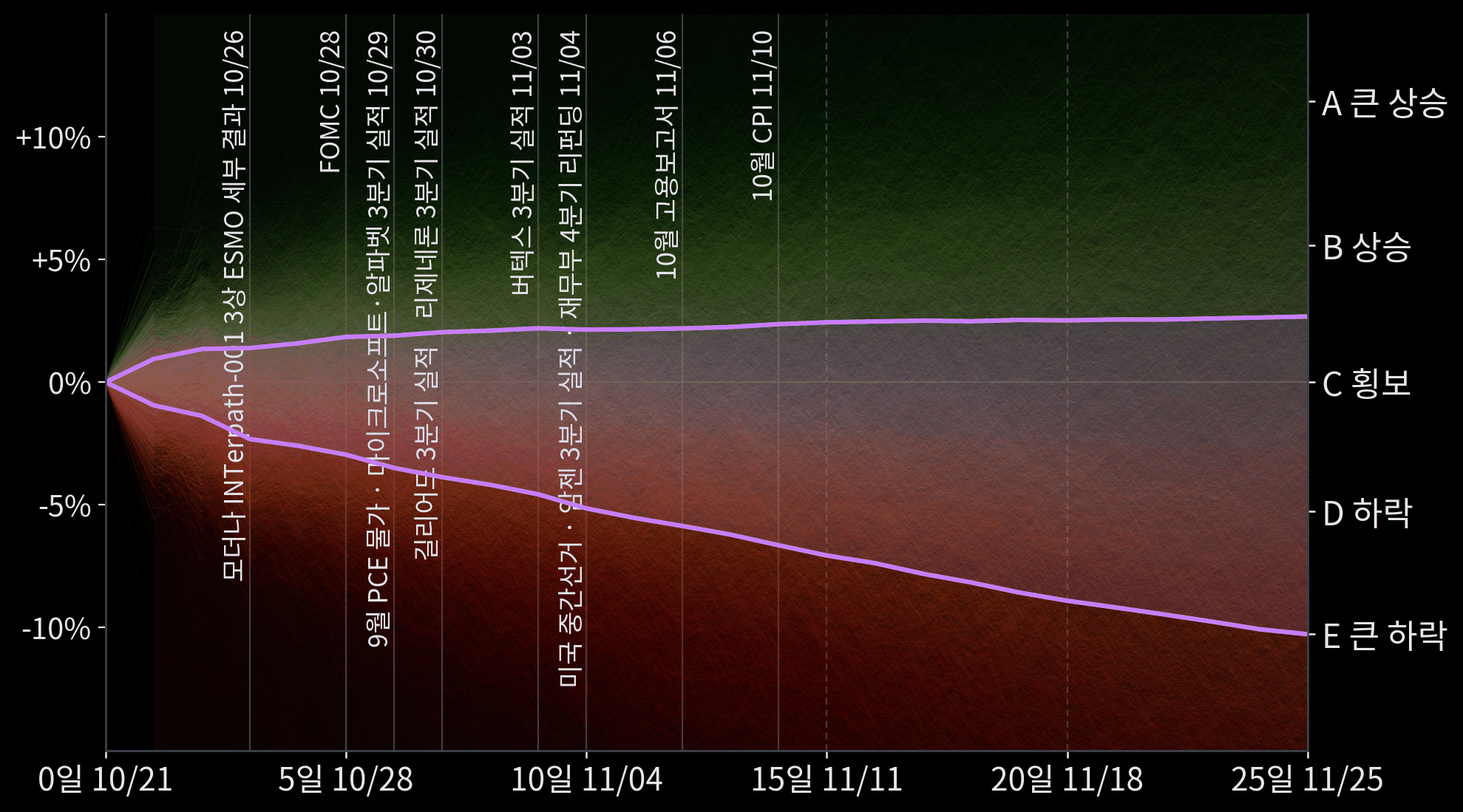
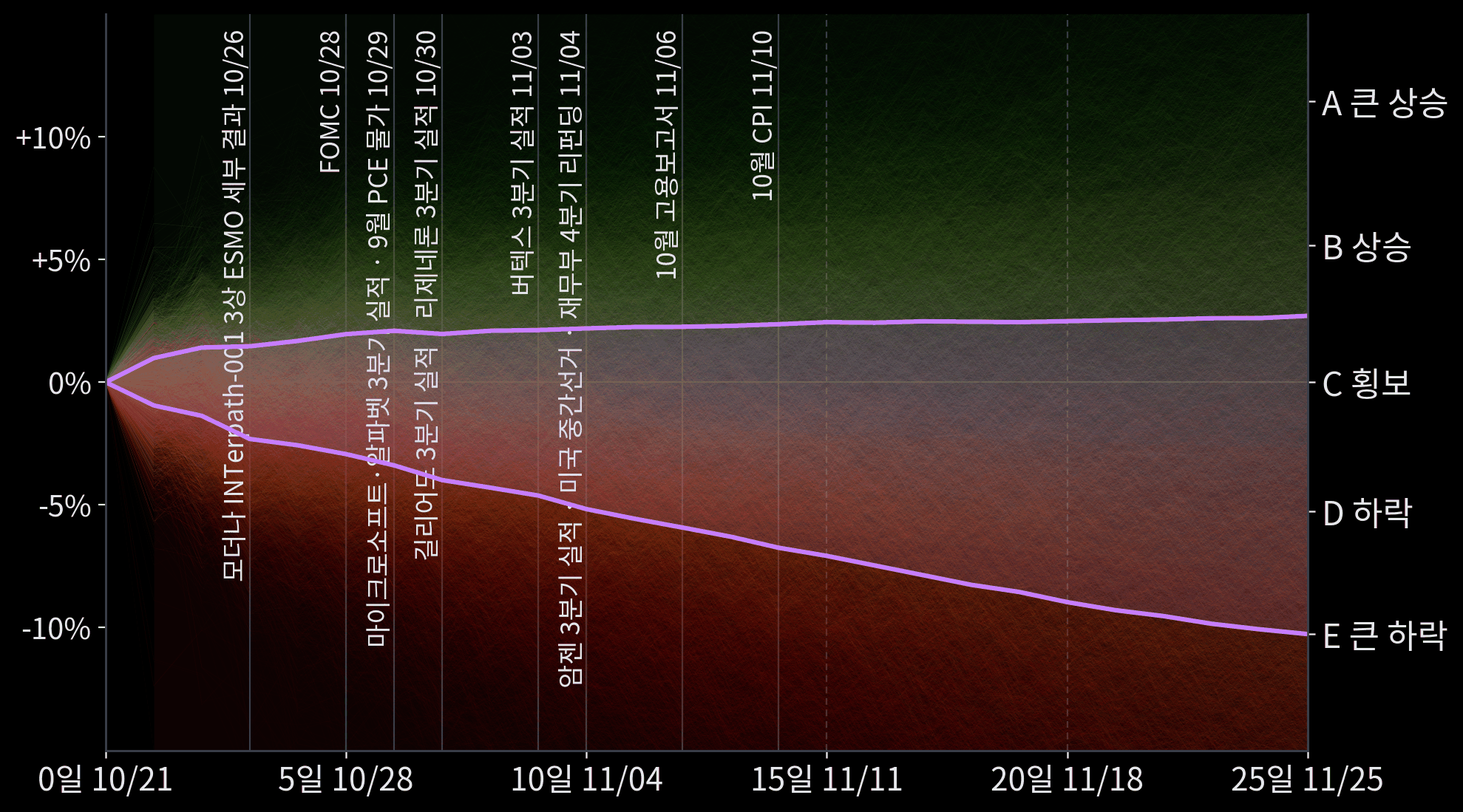
2026-10-22 biotech 리포트 공개본

diff --git a/r/20261022-biotech/report.html b/r/20261022-biotech/report.html
@@ -1,207 +1,202 @@
 <h2 id="오늘-판단-요약">오늘 판단 요약</h2>
-<p><img src="r/20261022-biotech/chart-biotech.png?v=337e635da9" /></p>
-<p><img src="r/20261022-biotech/predict-biotech.png?v=b8495b4a70" /></p>
+<p><img src="r/20261022-biotech/chart-biotech.png?v=d73c44df10" /></p>
+<p><img src="r/20261022-biotech/predict-biotech.png?v=c0faed87c1" /></p>
 <h3
-id="현재-상태-바이오-지수는-1년-고점-근처에-있지만-국채-금리가-높고-ai-기업의-부채에-대한-불안이-이어져-더-오르기-어렵다"><mark>현재
-상태</mark> 바이오 지수는 1년 고점 근처에 있지만, 국채 금리가 높고 AI
-기업의 부채에 대한 불안이 이어져 더 오르기 어렵다</h3>
-<p>10월 16일 AI 인프라 기업의 부채에 대한 우려 때문에 기술주가 크게
-하락했다. 바이오 주가도 같은 날 함께 하락했다. 모더나는 mRNA 기술로
-백신과 암 치료제를 만드는 기업이다. 10월 20일에는 모더나가 흑색종 백신
-발표를 앞두고 크게 오르면서 바이오 지수가 낙폭을 회복했다. 10월 21일에는
-투자자가 기술주를 다시 사들였고, 헬스케어 주식을 사던 자금은 하루 만에
-줄었다. 나스닥 바이오테크놀로지 지수는 지난 1년 가운데 가장 높은 수준에
-가깝다. 다만 국채가 주식보다 나은 수익을 주는 상태가 반년 가까이
-이어지고 있어, 신약 성과가 좋아도 주가가 크게 오르기는 어렵다. 위험
-회사채 시장의 신용 프리미엄도 1년 가운데 가장 높은 수준에 가깝게
-올랐지만, 금리가 크게 오른 채권은 아직 AI 관련 발행사와 최하위 등급
-채권이 대부분이다.</p>
+id="현재-상태-바이오-지수는-1년-고점-근처지만-국채-금리가-높고-위험-회사채의-신용-프리미엄이-올라-있어-더-오를-여지가-작다"><mark>현재
+상태</mark> 바이오 지수는 1년 고점 근처지만, 국채 금리가 높고 위험
+회사채의 신용 프리미엄이 올라 있어 더 오를 여지가 작다</h3>
+<p>나스닥 바이오테크놀로지 지수는 10월 20일 하루에 3% 넘게 올라 1년 고점
+근처에서 거래되고 있다. 언론은 이 상승을 두 가지로 설명했다: 투자자가
+기술주를 팔고 경기에 덜 민감한 헬스케어 주식을 샀다는 설명과, 10월 24일
+발표되는 모더나 암 백신 임상 결과를 앞두고 투자자가 주식을 샀다는
+설명이다. 두 재료가 이미 주가에 반영됐기 때문에, 같은 이유로 주가가 더
+오르기는 어렵다고 본다. 10년물 국채 수익률은 5%를 넘고 물가를 뺀
+실질금리도 반년 가까이 높아서, 안전한 국채가 주식보다 나은 수익을 주는
+상태가 이어지고 있다. 투자자가 위험한 기업에 돈을 빌려줄 때 요구하는
+신용 프리미엄(하이일드 채권 스프레드)도 지난 1년 가운데 가장 높은
+수준까지 올랐다. 다만 신용 프리미엄이 가장 크게 오른 채권은 AI
+데이터센터 관련 채권이고, 시장 전체의 하이일드 채권 스프레드는 1년
+안에서 높아도 위기로 보는 수준보다 한참 낮다. 바이오 기업의 증자와
+기업공개도 계속 성사되고 있다.</p>
 <h3
-id="주요-분기와-예측-앞으로-한-달-동안-모더나의-흑색종-백신-결과-ai-기업의-부채에-대한-불안-빅테크의-설비투자-계획이-중요하다"><mark>주요
-분기와 예측</mark> 앞으로 한 달 동안 모더나의 흑색종 백신 결과, AI
-기업의 부채에 대한 불안, 빅테크의 설비투자 계획이 중요하다</h3>
-<p>이번 달 바이오 주가에 가장 중요한 일은 10월 24일 모더나의 흑색종 백신
-3상 세부 결과 발표다. 재발 위험을 줄인 정도가 시장이 기대한 수준 근처로
-나올 가능성이 가장 높다고 본다. 두 번째는 AI 기업의 부채에 대한
-불안이다. 이 불안 때문에 위험 회사채 시장 전체의 신용 프리미엄까지 크게
-오를 가능성은 낮다고 본다. 세 번째는 10월 28일 마이크로소프트와 알파벳의
-실적 발표이고, 두 회사가 AI 설비투자 계획을 지킬 가능성이 높다고 본다.
-같은 날 연준은 금리를 동결하고 12월 인상 가능성을 남겨 둘 가능성이 높다.
-시장이 이미 예상한 결과라 발표 뒤 주가가 크게 움직이지 않는다.</p>
+id="주요-분기와-예측-앞으로-한-달-동안-모더나-임상-결과와-대형-바이오-기업의-실적-ai-기업의-부채에-대한-불안이-중요하다"><mark>주요
+분기와 예측</mark> 앞으로 한 달 동안 모더나 임상 결과와 대형 바이오
+기업의 실적, AI 기업의 부채에 대한 불안이 중요하다</h3>
+<p>가장 먼저 나오는 결과는 10월 24일 유럽종양학회(ESMO)에서 공개되는
+모더나 흑색종 백신의 3상 세부 결과다. 백신이 재발 위험을 시장 기대만큼
+줄였는지가 중요하다. 시장 기대 근처의 결과가 나올 가능성이 가장 높다고
+본다. 10월 29일부터 11월 3일 사이에는 길리어드·리제네론·버텍스·암젠이
+차례로 3분기 실적을 발표한다. 네 기업은 대체로 시장의 숫자 예상을 맞출
+가능성이 높다고 본다. 실적이 예상에 못 미치는 기업은 주가가 이미 많이
+올라 있어 크게 하락한다. AI 데이터센터 기업의 부채에 대한 불안 때문에
+위험 회사채 시장 전체의 신용 프리미엄까지 오르는 일은 일어날 수 있지만
+가능성이 높지는 않다고 본다.</p>
 <h3
-id="지수-영향-횡보-시나리오의-가능성이-가장-높고-모더나-결과가-실망스럽거나-ai-기업의-부채에-대한-불안이-커지면-하락-시나리오의-가능성이-커진다"><mark>지수
-영향</mark> 횡보 시나리오의 가능성이 가장 높고, 모더나 결과가
-실망스럽거나 AI 기업의 부채에 대한 불안이 커지면 하락 시나리오의
-가능성이 커진다</h3>
-<p>다섯 시나리오 가운데 횡보의 가능성이 가장 높고 하락이 그다음이다. 큰
-하락의 가능성도 하락과 비슷한 수준이다. 모더나 결과가 시장 기대에 못
-미치거나 AI 기업의 부채에 대한 불안 때문에 위험 회사채 시장 전체의 신용
-프리미엄까지 오르면 하락과 큰 하락 시나리오의 가능성이 커진다. 빅테크가
-설비투자 계획을 지키고 모더나 결과가 기대 근처로 나오면 횡보 시나리오의
-가능성이 커진다. 다섯 시나리오의 가능성은 어제와 거의 같다. 어제와 오늘
-사이 메타는 매출이 예상을 넘었고 올해 설비투자 계획의 하단을 올렸다.
-메타의 실적에도 위험 회사채 시장의 신용 프리미엄이 닷새 연속 높았으므로,
-상승 시나리오의 가능성은 조금 커지고 큰 하락 시나리오의 가능성은 조금
-줄었을 뿐이다.</p>
+id="지수-영향-횡보-시나리오의-가능성이-가장-높고-하락-시나리오가-그다음으로-높다"><mark>지수
+영향</mark> 횡보 시나리오의 가능성이 가장 높고 하락 시나리오가
+그다음으로 높다</h3>
+<p>다섯 시나리오 가운데 횡보 시나리오의 가능성이 가장 높고, 하락
+시나리오와 큰 하락 시나리오가 그다음으로 높다. 모더나 결과가 기대에 못
+미치거나 대형 기업이 실적에서 실망을 주면 하락 시나리오의 가능성이
+커진다. 반대로 대형 제약사가 상장 바이오 기업을 크게 인수하면 상승
+시나리오의 가능성이 커진다. 어제 판단과 견주면 상승 시나리오의 가능성이
+조금 커지고 큰 하락 시나리오의 가능성이 조금 줄었다. 어제와 오늘 사이에
+메타가 AI 설비투자 계획을 늘렸다. 이 때문에 다음 주
+마이크로소프트·알파벳도 계획을 지킬 가능성이 커졌다. 같은 날
+뉴욕타임스는 미국과 이스라엘이 선거 뒤 이란을 짧게 다시 공격할 계획을
+세웠다고 보도했다. 이 보도로 선거 뒤 공격 가능성을 조금 높게 봤기 때문에
+하락 시나리오의 가능성은 줄지 않았다.</p>
 <h2 id="주요-이슈-해설">주요 이슈 해설</h2>
 <h3
-id="1-모더나-흑색종-백신의-결과는-시장-기대-근처일-가능성이-높지만-주가가-이미-높아-결과가-실망스러우면-바이오-지수가-크게-하락한다-중요도-높음">1.
-모더나 흑색종 백신의 결과는 시장 기대 근처일 가능성이 높지만, 주가가
-이미 높아 결과가 실망스러우면 바이오 지수가 크게 하락한다
-<code>중요도 높음</code></h3>
-<p><mark>현재 상태</mark> 머크는 이 백신을 모더나와 함께 개발하는 미국
-대형 제약사다. 모더나와 머크는 10월 24일(토) 유럽종양학회(ESMO)에서
-흑색종 수술 환자의 재발을 막는 맞춤형 암 백신의 3상 세부 결과를
-발표한다. 두 회사는 8월 19일 이 시험이 1차 목표를 달성했다고 밝혔지만,
-위험비(백신을 맞은 환자의 재발 위험이 대조군의 몇 배인지)는 공개하지
-않았다. 골드만삭스는 지금 주가가 유지되려면 위험비가 0.70 아래여야
-한다고 봤다. 증권사 Evercore ISI는 주가가 이미 큰 확신을 반영했다고
-평가했다. 공개된 자료로는 그 확신을 뒷받침하기에 훨씬 부족하다고
-봤다.</p>
-<p><mark>주요 분기와 예측</mark> 위험비가 시장이 기대한 0.65와 0.72
-사이로 나올 가능성이 가장 높다고 본다. 위험비가 0.65 아래이고 환자군마다
-결과가 고르면 명확한 승리다. 위험비가 0.72를 넘으면 실망이다. 판단을
-바꿀 신호는 3상에 새로 들어간 초기 병기(IIB·IIC기) 환자에서 효과가
-약하게 나오는지다.</p>
-<p><mark>지수 영향</mark> 모더나는 IBB에서 비중이 약 6%로 큰 종목이어서,
-모더나 주가가 크게 하락하면 지수도 눈에 띄게 하락한다. 결과가
-실망스러우면 모더나 주식을 산 투자자가 매도하고 다른 백신 종목에 대한
-기대도 줄어 지수가 하락한다. 명확한 승리여도 공매도 잔고가 세 번 연속
-줄었기 때문에, 공매도 투자자의 청산 매수로 생기는 추가 상승은 크지 않다.
-8월 20일 1차 목표 달성 발표 다음 날 모더나 주가가 하루에 23.55%
-하락했지만, 그 뒤 두 달 동안 다시 올라 10월 21일 245.81달러가 됐다.</p>
+id="1-모더나-흑색종-백신의-세부-결과가-시장-기대에-못-미치면-바이오-지수가-함께-하락한다-중요도-높음">1.
+모더나 흑색종 백신의 세부 결과가 시장 기대에 못 미치면 바이오 지수가
+함께 하락한다 <code>중요도 높음</code></h3>
+<p><mark>현재 상태</mark> 모더나는 mRNA 기술로 백신과 치료제를 만드는
+기업이다. 모더나는 머크와 함께 개발한 개인 맞춤형 흑색종 백신의 3상 세부
+결과를 10월 24일(토) 유럽종양학회 대통령 심포지엄에서 발표한다. 모더나
+주가는 올해 크게 올라 바이오 ETF IBB 안에서 비중이 네 번째로 크다.
+시티는 재발 위험을 35% 넘게 줄이면 확실한 성공으로 봤고, 골드만삭스는
+지금 주가를 설명하려면 30% 넘게 줄여야 한다고 봤다. TD Cowen은 10월 21일
+목표주가를 90달러로 올렸지만 투자 의견은 중립을 유지했다. 이 목표주가는
+지금 주가의 절반에도 못 미치므로, 결과가 좋아도 주가가 요구하는 매출을
+설명하기 어렵다는 시각이 남아 있다.</p>
+<p><mark>주요 분기와 예측</mark> 재발 위험 감소가 시장이 기대한 범위의
+경계 근처에서 나올 가능성이 가장 높다고 본다. 확실한 성공으로 읽히는
+결과의 가능성이 그다음으로 높고, 기대에 못 미치는 결과도 드물지 않다.
+결과가 기대 근처면 첫 거래일인 10월 26일 바이오 지수는 크게 움직이지
+않는다. 하위 환자군에서 효과가 고르게 나왔는지가 판단을 바꿀 신호다.</p>
+<p><mark>지수 영향</mark> 모더나가 크게 움직인 최근 네 거래일에는
+모더나를 뺀 나머지 바이오 종목도 같은 방향으로 움직였다. 롱숏 펀드는
+오를 종목을 사고 내릴 종목을 공매도하는 펀드다. 바이오 전문지
+BioCentury는 모더나를 공매도한 롱숏 펀드가 손실을 메우려고 보유한 다른
+대형 바이오 종목을 팔았다고 풀이했다. 8월 20일 모더나가 첫 결과 발표 뒤
+23% 넘게 하락한 날에는 IBB도 3% 가까이 하락했다.</p>
 <h3
-id="2-ai-기업의-부채에-대한-불안-때문에-위험-회사채-시장-전체의-신용-프리미엄까지-오를-가능성은-낮다고-보지만-오르면-바이오-지수도-크게-하락한다-중요도-보통">2.
-AI 기업의 부채에 대한 불안 때문에 위험 회사채 시장 전체의 신용
-프리미엄까지 오를 가능성은 낮다고 보지만, 오르면 바이오 지수도 크게
-하락한다 <code>중요도 보통</code></h3>
-<p><mark>현재 상태</mark> 하이일드 채권 스프레드(투자자가 위험한 기업에
-돈을 빌려줄 때 요구하는 신용 프리미엄)는 10월 14일부터 닷새 연속 3.20%를
-넘었고, 10월 20일 3.33%로 1년 가운데 가장 높은 수준에 가까웠다.
-골드만삭스는 AI 관련 부채의 스프레드가 크게 넓어졌지만 AI와 무관한 BB·B
-등급 부채의 스프레드는 거의 변하지 않았다고 분석했다. 오라클은 AI
-데이터센터에 대규모로 투자하는 클라우드 기업이다. CNBC에 따르면 오라클의
-5년 신용부도스와프(부도에 대비하는 보험료) 가격은 10월 19일 315bp로 1년
-전의 네 배를 넘었다. CNBC는 10월 21일 익명의 신용 데스크 소식통을
-인용해, 데이터센터에 정치적 반발이 일어날 수 있다는 우려 때문에 하이일드
-채권 발행이 중간선거 뒤까지 사실상 멈췄다고 전했다. 다만 3.33%는
-평상시로 보는 5%보다 낮은 값이어서, 시장은 이 불안을 AI 관련 기업의
-문제로 본다.</p>
-<p><mark>주요 분기와 예측</mark> 한 달 안에 신용등급 강등이나 채권 발행
-철회가 이어져 위험 회사채 시장 전체의 신용 프리미엄이 크게 오를 가능성은
-낮다고 본다. 마이크로소프트 실적 발표 뒤 기술주가 크게 하락하거나 연준이
-금리를 올리면 위험 회사채 시장 전체의 신용 프리미엄이 크게 오를 가능성이
-커진다. 판단을 바꿀 신호는 BB·B 등급 스프레드가 2주 넘게 지금처럼
-높은지다.</p>
-<p><mark>지수 영향</mark> 위험 회사채 시장 전체의 신용 프리미엄이 오르면
-투자자가 위험 자산을 줄이고, 현금이 부족한 중소형 바이오 기업의 증자
-비용도 오른다. 지금은 이 경로가 작동하지 않는다. 바이오 기업 디스크
-메디슨은 3상 성공 발표 다음 날인 10월 20일 4.5억 달러 증자를 직전
-종가보다 약 6% 낮은 가격에 마쳤다. 2018년 11월 Baa 회사채 스프레드가
-넓어지자 바이오 주가는 12월 24일까지 하락했고, 2019년 1월 4일 파월 연준
-의장이 정해진 정책 경로가 없다고 말한 뒤에야 반등했다.</p>
-<h3
-id="3-마이크로소프트알파벳은-ai-설비투자-계획을-지킬-가능성이-높지만-계획을-줄이면-기술주와-함께-바이오-주가도-하락한다-중요도-보통">3.
-마이크로소프트·알파벳은 AI 설비투자 계획을 지킬 가능성이 높지만, 계획을
-줄이면 기술주와 함께 바이오 주가도 하락한다
+id="2-주가가-크게-내리면-중소형-바이오-기업의-자금-조달이-막혀-하락이-길어질-수-있지만-지금은-증자와-기업공개가-계속-성사된다-중요도-보통">2.
+주가가 크게 내리면 중소형 바이오 기업의 자금 조달이 막혀 하락이 길어질
+수 있지만, 지금은 증자와 기업공개가 계속 성사된다
 <code>중요도 보통</code></h3>
-<p><mark>현재 상태</mark> 10월 16일 AI 인프라 기업의 부채에 대한 우려
-때문에 나스닥 종합지수가 2.3% 하락했다. 같은 날 IBB는 2.61%, 중소형
-바이오 ETF인 XBI는 3.65% 하락했다. 10월 21일 장 마감 뒤 메타는 매출이
-예상을 넘었고 올해 설비투자 계획의 하단을 1,350억 달러로 올려 시간외
-거래에서 올랐다. 반도체 장비 기업 램리서치는 같은 날 다음 분기 전망이
-예상을 웃돌았는데도 시간외 거래에서 5% 넘게 하락했다. 서울경제는
-램리서치의 전망이 예상을 조금 웃돌았을 뿐이어서 주가가 하락했다고
-설명했다. 투자자가 AI 기업에 거는 기대가 이미 높아서 좋은 실적만으로는
-주가가 오르기 어렵다.</p>
-<p><mark>주요 분기와 예측</mark> 마이크로소프트와 알파벳은 10월 28일 장
-마감 뒤 실적을 발표한다. 두 회사가 AI 설비투자 계획을 유지하거나 늘릴
-가능성이 높다고 본다. 메타도 계획을 지켰으므로 같은 방향의 근거가 된다.
-판단을 바꿀 신호는 QQQ가 10월 6일 고점보다 8% 넘게 하락하는지다.</p>
-<p><mark>지수 영향</mark> 계획이 유지되면 기술주에 대한 불안이 줄어
-바이오 주가도 조금 오른다. 계획이 줄면 AI 기업의 부채에 대한 불안이 다시
-커지고, 기술주가 급락하는 날 바이오 주가도 함께 하락한다. 헬스케어
-주식을 사던 자금이 10월 21일 하루 만에 줄었기 때문에, 기술주가 하락할 때
-바이오 주가도 함께 하락하기 쉽다. 2018년 4분기에는 QQQ가 1% 넘게 하락한
-22일 가운데 IBB가 오른 날이 하루도 없었다.</p>
+<p><mark>현재 상태</mark> 바이오 기업은 신약을 개발하는 동안 이익이
+없어서 증자와 기업공개로 연구 자금을 마련한다. 10월 21일 디스크 메디슨은
+전날 종가보다 약 6% 낮은 가격에 4.5억 달러어치 주식을 팔았고, 소형사
+알파 테크노바도 4,000만 달러를 마련했다. 10월에 상장한 바이오 기업 네
+곳의 주가는 모두 공모가보다 높다. 다만 기업공개가 모두 순조롭지는 않다.
+르네상스 캐피털은 미국 기업공개 시장을 분석하는 회사다. 르네상스
+캐피털은 TRex Bio가 2025년 2월 이후 처음으로 공모가 범위 중간보다 낮게
+상장한 바이오 기업이라고 밝혔다.</p>
+<p><mark>주요 분기와 예측</mark> 증자와 기업공개가 이번 달에도 계속
+성사될 가능성이 높다고 본다. 반대로 바이오 지수가 크게 하락하면 주관사가
+공모를 미루거나 공모가를 범위 아래로 낮춘다. 리시아 테라퓨틱스는 상장을
+준비하는 바이오 기업이다. 10월 23일로 예정된 리시아 테라퓨틱스의 공모가
+결정이 판단을 바꿀 신호다.</p>
+<p><mark>지수 영향</mark> 조달이 막히면 초기 단계 기업부터 주식을 팔아
+현금을 아끼려는 투자자가 늘어 동일가중 바이오 지수(종목마다 같은 비중을
+두는 지수, XBI)가 먼저 하락한다. 1997년 3~4월에는 금리 인상 뒤 바이오
+기업공개가 두 달 동안 한 건도 성사되지 않았다. 바이오 지수는 약 두 달
+만에 20% 넘게 하락한 뒤에야 대형주 실적과 함께 반등했다. 지금은 대형
+후속 공모가 할인 폭 안에서 팔리고 있어 자금 조달이 막혀 하락이 이어지는
+연쇄는 아직 시작되지 않았다.</p>
+<h3
+id="3-ai-데이터센터-기업의-부채에-대한-불안-때문에-위험-회사채-시장-전체의-신용-프리미엄까지-오르면-바이오-주가도-함께-하락한다-중요도-보통">3.
+AI 데이터센터 기업의 부채에 대한 불안 때문에 위험 회사채 시장 전체의
+신용 프리미엄까지 오르면 바이오 주가도 함께 하락한다
+<code>중요도 보통</code></h3>
+<p><mark>현재 상태</mark> 코어위브는 AI 데이터센터를 빌려주는 기업이다.
+코어위브의 5년 신용부도스와프(부도에 대비하는 보험료) 가격은 10월 20일
+1,000bp를 넘었다. 오라클의 같은 보험료도 315bp로 1년 전보다 세 배 넘게
+올랐다. 위험 회사채 시장 전체의 하이일드 채권 스프레드는 10월 14일부터
+닷새 연속 1년 가운데 가장 높은 수준으로 마감했다. BB 등급과 단일 B 등급
+회사채의 신용 프리미엄도 10월 중순까지 4주 동안 올랐다. 다만
+골드만삭스는 AI 관련 하이일드 채권의 신용 프리미엄이 가장 크게 올랐고
+AI와 무관한 회사채의 신용 프리미엄은 거의 변하지 않았다고 밝혔다.</p>
+<p><mark>주요 분기와 예측</mark> AI 발행사 채권 밖의 위험 회사채는 신용
+프리미엄이 지금보다 크게 오르지 않을 가능성이 높다고 본다. 반대로
+오라클의 신용등급이 투자등급 아래로 내려가거나 AI 기업이 채권 발행을
+철회하면 회사채 시장 전체의 신용 프리미엄이 오른다. 다음 주
+마이크로소프트·알파벳이 AI 설비투자를 줄이면 회사채 시장 전체의 신용
+프리미엄이 오를 가능성도 커진다. BB 등급과 단일 B 등급 회사채의 신용
+프리미엄이 2주 넘게 계속 높은지가 판단을 바꿀 신호다.</p>
+<p><mark>지수 영향</mark> 위험 회사채 시장 전체의 신용 프리미엄이 오르면
+투자자는 위험 자산을 줄이고, 바이오 기업이 자금을 빌리는 비용도 오른다.
+2023년 3월 실리콘밸리은행이 파산했을 때 바이오 지수는 한 달 반 사이에
+10% 넘게 하락했다. 바이오 지수는 예금 전액 보호와 화이자의 시젠 인수
+발표가 나온 뒤 약 30거래일 만에 대부분 회복했다. 지금은 바이오 기업의
+증자가 계속 성사되고 있어, 신용 프리미엄 상승이 바이오 기업의 자금 조달
+비용을 올리는 경로는 아직 나타나지 않았다.</p>
 <h3 id="검토했지만-비중을-낮춘-이슈">검토했지만 비중을 낮춘 이슈</h3>
 <ul>
-<li><strong>지수 하락에 따른 바이오 증자 창구 위축</strong>: 바이오
-기업의 증자와 기업공개가 아직 순조로워, 지수가 먼저 크게 하락해야 이
-경로가 작동한다.</li>
-<li><strong>상장 바이오 기업에 대한 추가 대형 인수</strong>: 10월에 인수
-두 건이 발표된 뒤 새 발표가 없고 다음 계기는 대형 제약사 실적 발표와
-선거 뒤다. 금리가 높은 시기라 인수가 발표돼도 주가 효과가 짧다고
-본다.</li>
-<li><strong>미국의 이란 공격과 유가</strong>: 트럼프 대통령이 선거
-전에는 공격하지 않겠다고 밝혀 선거 전 공격 가능성은 낮다. 투자자가 선거
-뒤 공격 위험을 이미 예상해 브렌트유가 올라 배럴당 110달러를 넘었다.</li>
-<li><strong>생명과학 도구·의료기기 기업의 3분기 실적</strong>: 애보트가
-연간 매출 전망을 낮춘 날 헬스케어 ETF가 하락했지만, 이 기업들은 IBB 구성
-종목이 아니어서 바이오 기업의 이익으로 이어지는 경로가 약하다.</li>
-<li><strong>미국 국립보건원(NIH)의 암 백신 민관 사업</strong>: 참여
-기업과 예산을 밝힐 1차 발표 일정이 없어 이번 달 주가에 주는 영향이 작다.
-암 백신에 대한 기대가 맞는지는 모더나 결과가 먼저 보여 준다.</li>
-<li><strong>메디케어 3차 약가 협상가 공표</strong>: 공표 시한이 11월
-30일이어서 결과가 한 달 뒤에 나오고, IBB 상위 종목 가운데 대상 약을 가진
-기업은 길리어드뿐이다.</li>
+<li><strong>상장 바이오 기업 추가 인수</strong>: 대형 제약사가 연말 전에
+상장 바이오 기업을 또 인수할 가능성은 높다. 하지만 인수 규모가 10억~50억
+달러면 지수 전체 주가가 크게 움직이지 않는다.</li>
+<li><strong>마이크로소프트·알파벳 실적과 기술주 조정</strong>: 메타가
+설비투자 계획을 늘려 두 기업도 계획을 지킬 가능성이 높다고 본다. 시장이
+이미 예상하는 결과라 바이오 지수에 주는 영향은 작다.</li>
+<li><strong>대형 바이오 기업 3분기 실적(길리어드·리제네론)</strong>:
+시장이 이미 낮은 숫자를 예상한 결과다. 한 기업이 실망을 주어도 지수 전체
+하락 폭은 크지 않다.</li>
+<li><strong>미국의 선거 뒤 이란 재공격</strong>: 트럼프 대통령이 아직
+공격을 승인하지 않았다. 계획대로 짧은 작전에 그치면 유가와 금리가 크게
+오르지 않는다.</li>
+<li><strong>QIAGEN 사모펀드 인수</strong>: 생명과학 장비·진단 기업을
+사모펀드가 사는 거래다. 상장 바이오 기업의 인수 흐름으로 이어지는 경로가
+약하다.</li>
 </ul>
 <h2 id="다가오는-이벤트">다가오는 이벤트</h2>
-<p><img src="r/20261022-biotech/tree-biotech.png?v=d205d624b4" /></p>
+<p><img src="r/20261022-biotech/tree-biotech.png?v=74f6214e91" /></p>
 <h3
-id="2026-10-24토-모더나-interpath-001-3상-esmo-세부-결과-중요도-높음">2026-10-24(토)
-모더나 INTerpath-001 3상 ESMO 세부 결과 <code>중요도 높음</code></h3>
+id="1024토-장중-모더나-interpath-001-3상-esmo-세부-결과-중요도-높음">10/24(토)
+장중 모더나 INTerpath-001 3상 ESMO 세부 결과
+<code>중요도 높음</code></h3>
 <table class="events">
 <thead><tr><th>분기</th><th>확률</th><th>전개 예상</th></tr></thead>
 <tbody>
-<tr><td class="branch">위험비 0.65 이하·하위군 일관(명확한 승리)</td><td class="chance">30%</td><td>모더나 주가가 오르고 바이오 지수도 조금 오른다. 공매도 잔고가 줄어
-있어 상승 폭은 크지 않다.</td></tr>
-<tr><td class="branch">위험비 0.65~0.72(문턱 근처)</td><td class="chance">42%</td><td>시장이 예상한 결과라 지수는 크게 움직이지 않는다. 주가가 애널리스트
-평가보다 높아 모더나는 조금 하락할 수 있다.</td></tr>
-<tr><td class="branch">위험비 0.72 초과(실망)</td><td class="chance">28%</td><td>모더나 주가가 크게 하락하고 백신 종목에 대한 기대가 줄어 바이오
-지수도 하락한다.</td></tr>
+<tr><td class="branch">위험비 0.65 이하·하위군 일관(명확한 승리)</td><td class="chance">30%</td><td>모더나와 함께 바이오 지수가 오르지만, 주가에 기대가 많이 반영돼 있어
+상승 폭은 크지 않다</td></tr>
+<tr><td class="branch">위험비 0.65~0.72(문턱 근처)</td><td class="chance">42%</td><td>시장이 예상한 결과라 바이오 지수가 크게 움직이지 않는다</td></tr>
+<tr><td class="branch">위험비 0.72 초과(실망)</td><td class="chance">28%</td><td>모더나가 크게 하락하고 롱숏 펀드가 다른 바이오 종목도 팔아 지수가
+함께 하락한다</td></tr>
 </tbody>
 </table>
-<h3 id="2026-10-28수-fomc-중요도-낮음">2026-10-28(수) FOMC
+<h3 id="1028수-장중-fomc-중요도-낮음">10/28(수) 장중 FOMC
 <code>중요도 낮음</code></h3>
 <table class="events">
 <thead><tr><th>분기</th><th>확률</th><th>전개 예상</th></tr></thead>
 <tbody>
-<tr><td class="branch">기준금리 동결·12월 인상 시사 유지</td><td class="chance">80%</td><td>시장이 이미 예상한 결과라 지수는 크게 움직이지 않는다.</td></tr>
-<tr><td class="branch">동결·추가 조정 문구 약화</td><td class="chance">10%</td><td>12월 이후 추가 인상에 대한 기대가 줄어 바이오 주가가 오른다.</td></tr>
-<tr><td class="branch">기준금리 0.25%p 인상</td><td class="chance">10%</td><td>추가 인상에 대한 우려가 커져 현금 소진이 큰 바이오 기업부터 주가가
-하락한다.</td></tr>
+<tr><td class="branch">기준금리 동결·12월 인상 시사 유지</td><td class="chance">80%</td><td>시장이 예상한 결과라 주가가 크게 움직이지 않는다</td></tr>
+<tr><td class="branch">동결·추가 조정 문구 약화</td><td class="chance">10%</td><td>12월 이후 인상에 대한 기대가 줄어 바이오 주가가 오른다</td></tr>
+<tr><td class="branch">기준금리 0.25%p 인상</td><td class="chance">10%</td><td>금리가 더 오른다는 걱정이 커져 바이오 주가가 하락한다</td></tr>
 </tbody>
 </table>
 <h3
-id="2026-10-28수-마이크로소프트알파벳-3분기-실적-중요도-보통">2026-10-28(수)
-마이크로소프트·알파벳 3분기 실적 <code>중요도 보통</code></h3>
+id="1028수-장후-마이크로소프트알파벳-3분기-실적-중요도-보통">10/28(수)
+장후 마이크로소프트·알파벳 3분기 실적 <code>중요도 보통</code></h3>
 <table class="events">
 <thead><tr><th>분기</th><th>확률</th><th>전개 예상</th></tr></thead>
 <tbody>
-<tr><td class="branch">AI 설비투자 계획 유지·상향</td><td class="chance">66%</td><td>기술주에 대한 불안이 줄어 바이오 주가도 조금 오른다.</td></tr>
-<tr><td class="branch">AI 설비투자 축소·조달 우려 확인</td><td class="chance">34%</td><td>AI 기업의 부채에 대한 불안이 다시 커져 기술주와 함께 바이오 주가도
-하락한다.</td></tr>
+<tr><td class="branch">AI 설비투자 계획 유지·상향</td><td class="chance">70%</td><td>기술주에 대한 불안이 줄어 기술주가 회복하고, 투자자가 헬스케어 주식
+일부를 팔아 기술주를 다시 산다</td></tr>
+<tr><td class="branch">AI 설비투자 축소·조달 우려 확인</td><td class="chance">30%</td><td>AI 기업의 부채에 대한 불안이 커져 기술주와 함께 바이오 주가도
+하락한다</td></tr>
 </tbody>
 </table>
-<h3 id="2026-10-29목-9월-pce-물가-중요도-낮음">2026-10-29(목) 9월 PCE
+<h3 id="1029목-장전-9월-pce-물가-중요도-낮음">10/29(목) 장전 9월 PCE
 물가 <code>중요도 낮음</code></h3>
 <table class="events">
 <thead><tr><th>분기</th><th>확률</th><th>전개 예상</th></tr></thead>
 <tbody>
-<tr><td class="branch">근원 전월비 0.35% 이상</td><td class="chance">22%</td><td>내년 추가 인상에 대한 기대가 커져 바이오 주가가 조금 하락한다.</td></tr>
-<tr><td class="branch">근원 전월비 0.25~0.34%</td><td class="chance">70%</td><td>이코노미스트 예상 범위의 결과라 주가가 크게 움직이지 않는다.</td></tr>
-<tr><td class="branch">근원 전월비 0.24% 이하</td><td class="chance">8%</td><td>인상에 대한 기대가 줄어 바이오 주가가 조금 오른다.</td></tr>
+<tr><td class="branch">근원 전월비 0.35% 이상</td><td class="chance">28%</td><td>내년에도 금리를 더 올린다는 예상이 커져 바이오 주가가 조금
+하락한다</td></tr>
+<tr><td class="branch">근원 전월비 0.25~0.34%</td><td class="chance">60%</td><td>시장이 예상한 결과라 주가가 크게 움직이지 않는다</td></tr>
+<tr><td class="branch">근원 전월비 0.24% 이하</td><td class="chance">12%</td><td>금리 인상에 대한 걱정이 줄어 바이오 주가가 조금 오른다</td></tr>
 </tbody>
 </table>
-<h3 id="2026-10-29목-길리어드-3분기-실적-중요도-낮음">2026-10-29(목)
-길리어드 3분기 실적 <code>중요도 낮음</code></h3>
+<h3 id="1029목-장후-길리어드-3분기-실적-중요도-보통">10/29(목) 장후
+길리어드 3분기 실적 <code>중요도 보통</code></h3>
 <table class="events">
 <thead><tr><th>분기</th><th>확률</th><th>전개 예상</th></tr></thead>
 <tbody>
-<tr><td class="branch">매출·EPS 컨센서스 이상·가이던스 유지 이상</td><td class="chance">62%</td><td>IBB 비중 1위 종목의 주가가 크게 움직이지 않아 지수도 크게 움직이지
-않는다.</td></tr>
-<tr><td class="branch">가이던스 유지에도 3% 넘게 하락하거나 매출 미달</td><td class="chance">38%</td><td>길리어드 주가가 하락해 지수도 조금 하락하고, 다른 대형 바이오 기업의
-실적에 대한 기대도 낮아진다.</td></tr>
+<tr><td class="branch">매출·EPS 컨센서스 이상·가이던스 유지 이상</td><td class="chance">62%</td><td>시장이 예상한 결과라 지수가 크게 움직이지 않는다</td></tr>
+<tr><td class="branch">가이던스 유지에도 3% 넘게 하락하거나 매출 미달</td><td class="chance">38%</td><td>지수 비중이 가장 큰 기업이 하락해 바이오 지수도 하락하고, 뒤이어
+발표하는 대형 기업에 대한 기대도 낮아진다</td></tr>
 </tbody>
 </table>
